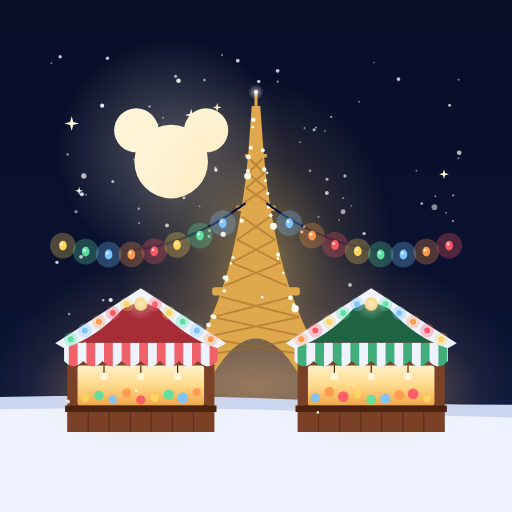
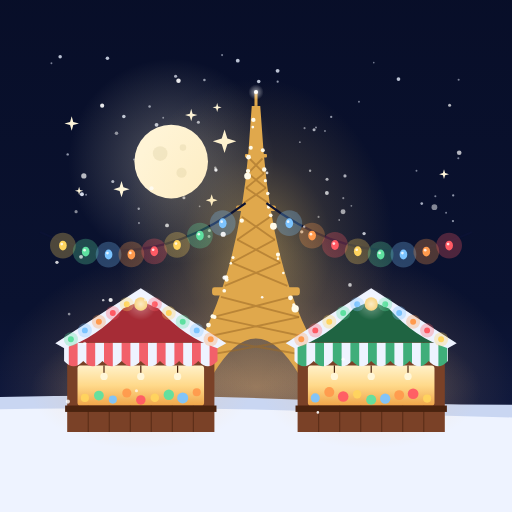
Web app di dicembre: luna piena con le stelline nell'icona e nell'anteprima (#5)
Icona e immagine del link con una luna piena e le stelline, disegno originale. Cambia solo la cartella dicembre/.

diff --git a/dicembre/index.html b/dicembre/index.html
@@ -16,15 +16,15 @@
 <meta property="og:url" content="https://kur0chanx.github.io/parigi-in-tasca/dicembre/">
 <meta property="og:site_name" content="Parigi in tasca">
 <meta property="og:locale" content="it_IT">
-<meta property="og:image" content="https://kur0chanx.github.io/parigi-in-tasca/dicembre/anteprima.jpg?v=2">
+<meta property="og:image" content="https://kur0chanx.github.io/parigi-in-tasca/dicembre/anteprima.jpg?v=3">
 <meta property="og:image:type" content="image/jpeg">
 <meta property="og:image:width" content="1200">
 <meta property="og:image:height" content="630">
-<meta property="og:image:alt" content="Parigi di notte coi mercatini di Natale, la Torre Eiffel accesa e la luna a forma di Topolino: «Parigi e Disney a Natale, 13–17 dicembre 2026»">
+<meta property="og:image:alt" content="Parigi di notte coi mercatini di Natale, la Torre Eiffel accesa e la luna piena: «Parigi e Disney a Natale, 13–17 dicembre 2026»">
 <meta name="twitter:card" content="summary_large_image">
 <link rel="manifest" href="manifest.webmanifest">
-<link rel="icon" type="image/png" sizes="192x192" href="icona-192.png?v=3">
-<link rel="apple-touch-icon" href="icona-180.png?v=3">
+<link rel="icon" type="image/png" sizes="192x192" href="icona-192.png?v=4">
+<link rel="apple-touch-icon" href="icona-180.png?v=4">
 <title>Parigi e Disney a Natale</title>
 <script>try{if(localStorage.getItem('palette')==='vino')document.documentElement.dataset.palette='vino'}catch(e){}</script>
 <meta name="claude:viewport-fit-sides" content="cover">
